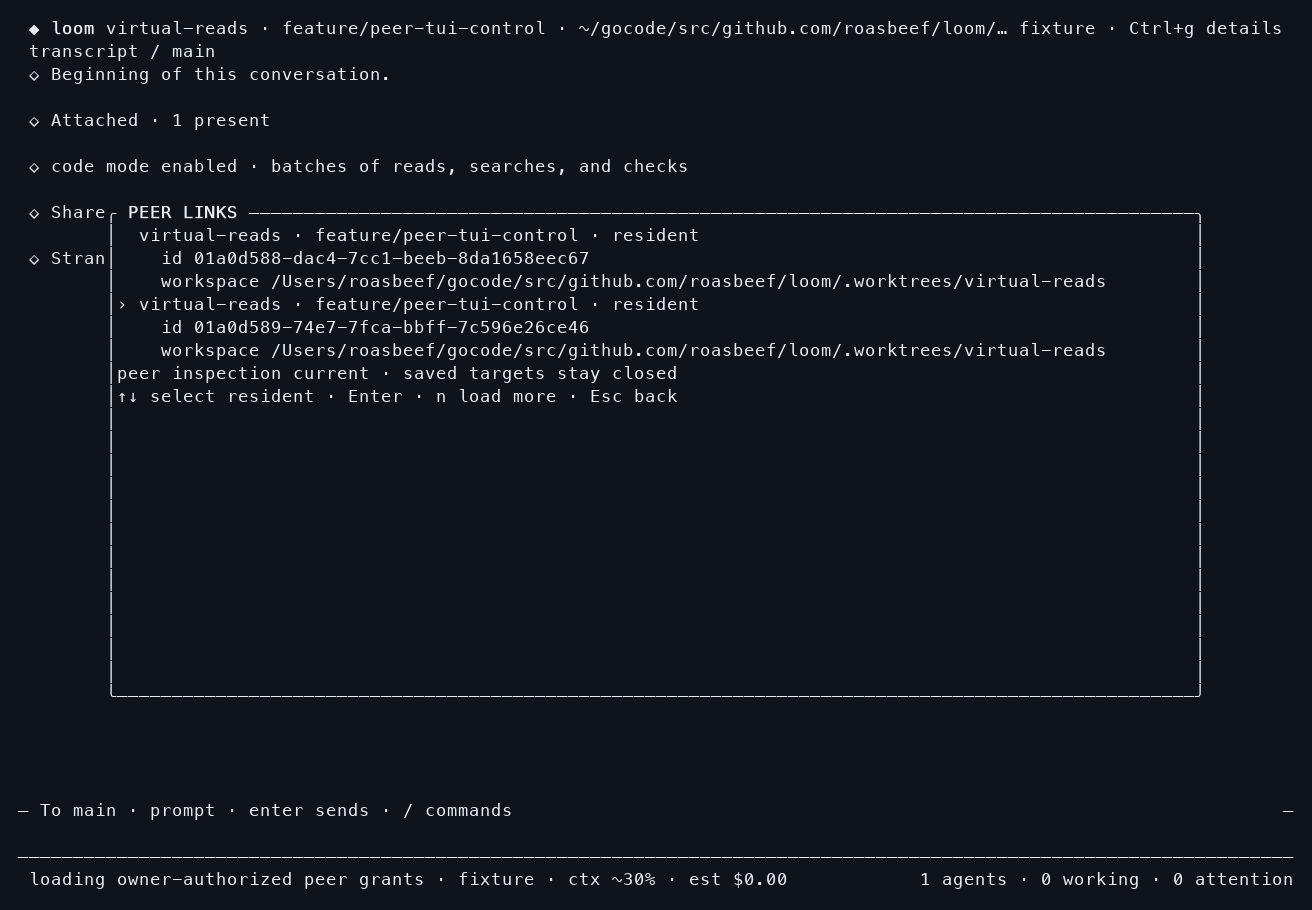
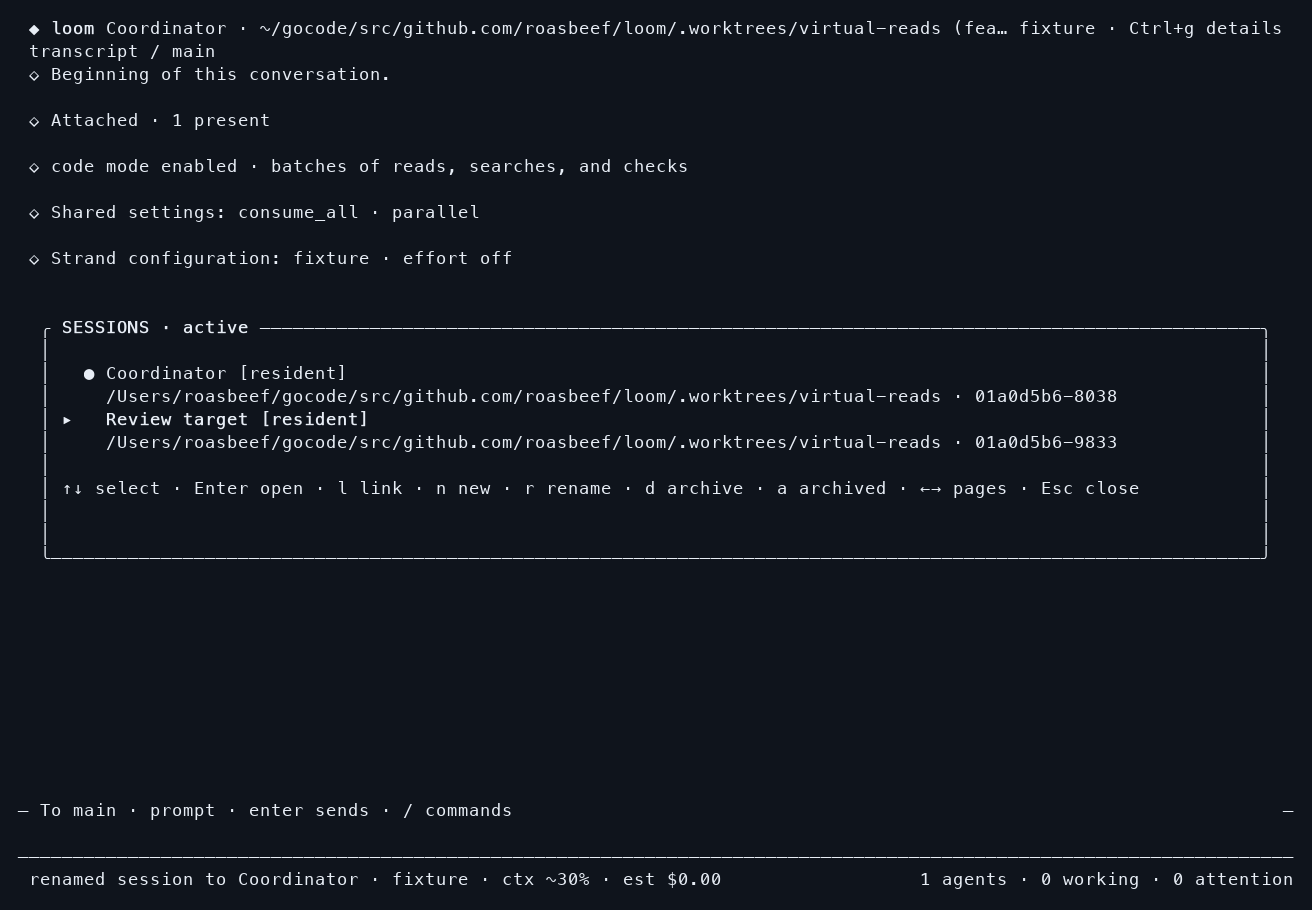
docs: recapture peer link terminal flow
In this commit, we replace the peer-link screenshots with native captures of the session-first flow and its compact picker. The capture uses two resident fixture sessions and shows the exact grant review and resulting direction without a model request.

diff --git a/docs/images/README.md b/docs/images/README.md
@@ -30,11 +30,12 @@ results, and UI elements were not composited or rewritten for the image.
 ## Peer-link captures
 
 `peer-links-chooser.png`, `peer-links-confirm.png`, and `peer-links-linked.png`
-show the native 116-by-38 terminal at code commit `1a7391b5`. Two sample
-sessions were resident in the same isolated daemon. The operator selected the
-second session, entered its `main` strand, reviewed the directional grant with
-the default `busy_only` permission, then explicitly selected `may_wake` and
-created the link. No model request was sent.
+show the native 116-by-38 terminal at pre-rebase code commit `24eba5e1`. Two
+sample sessions were resident in the same isolated daemon. The operator
+selected **Review target** from `/sessions`, keeping **Coordinator / main** as
+the source, then pressed `l`. The operator entered the target's exact `main`
+strand, explicitly selected the `may_wake` permission, and created the link.
+No model request was sent.
 
 Each image renders an actual `tmux capture-pane -e -p` frame with
 `docs/design-notes/tui-agent-workspace/render_capture.py`. The UI content was
